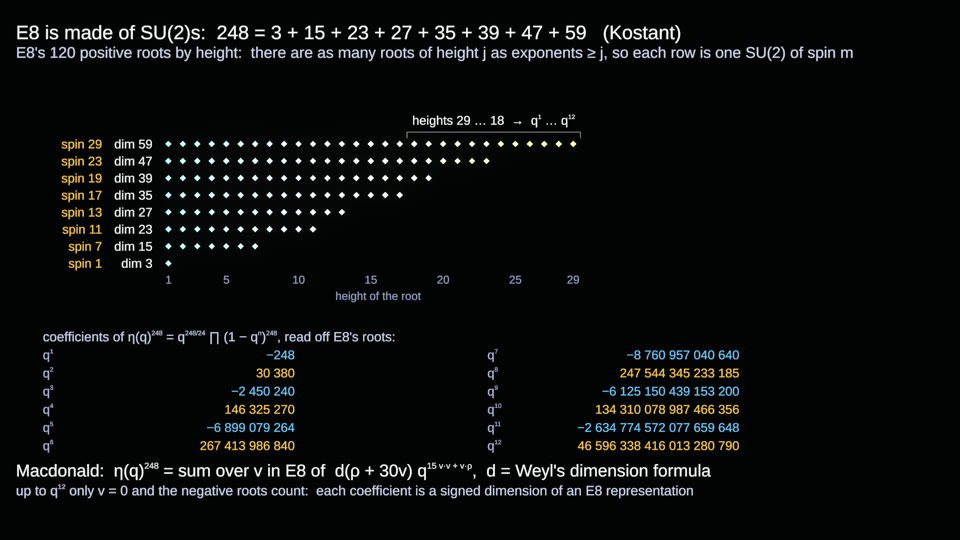
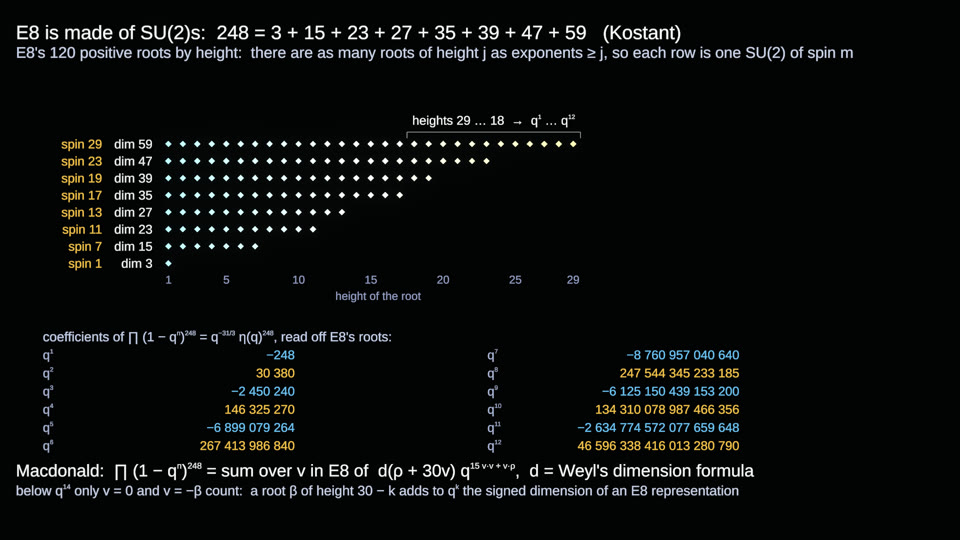
Lie sections: Macdonald's identity with η's q^(31/3), checked term by term; τ(n) from E8³ and the Leech lattice
- IB: the identity is ∏(1 − qⁿ)²⁴⁸ = Σ d(ρ + 30v) q^(15 v·v + v·ρ), i.e. η²⁴⁸ with its q^(31/3)
  (= |ρ|²/60) taken off. Rechecked exactly through q¹³, one root at a time: a root β of height
  30 − k adds d(ρ − 30β) to q^k, and the 2160 norm-4 vectors first enter at q¹⁴. q¹…q⁶ are single
  signed irreducible dimensions; from q⁷ on, two to four roots share a height and their terms add.
- ID: Δ = (θ_E8³ − θ_Leech)/720, so τ(n) counts the vectors of norm 2n in E8³ minus those in
  the Leech lattice, over 720 (τ(2) = −24, τ(3) = 252).
- IC: drop a needless "up to sign" (ζ(−1)ζ(−3)²ζ(−5) is positive).

Changed region(s): [[0.0, 0.8593, 0.7812, 0.9185], [0.125, 0.5926, 0.4062, 0.6519]]

diff --git a/Assets/Tests/ExperimentsRenderTest.cs b/Assets/Tests/ExperimentsRenderTest.cs
@@ -1610,15 +1610,15 @@ public class ExperimentsRenderTest
             "E8 is made of SU(2)s:  248 = 3 + 15 + 23 + 27 + 35 + 39 + 47 + 59   (Kostant)|" +
             "E8's 120 positive roots by height:  there are as many roots of height j as exponents ≥ j, so each row is one SU(2) of spin m", 52f);
         sacks.ExpCaption(Lie(1) + new Vector3(-125f, -54f, -.3f), Vector3.down * 5.4f,
-            "Macdonald:  η(q)<sup>248</sup> = sum over v in E8 of  d(ρ + 30v) q<sup>15 v·v + v·ρ</sup>,  d = Weyl's dimension formula|" +
-            "up to q<sup>12</sup> only v = 0 and the negative roots count:  each coefficient is a signed dimension of an E8 representation", 46f);
+            "Macdonald:  ∏ (1 − q<sup>n</sup>)<sup>248</sup> = sum over v in E8 of  d(ρ + 30v) q<sup>15 v·v + v·ρ</sup>,  d = Weyl's dimension formula|" +
+            "below q<sup>14</sup> only v = 0 and v = −β count:  a root β of height 30 − k adds to q<sup>k</sup> the signed dimension of an E8 representation", 46f);
         yield return Shot("IB1-e8-as-su2-spins-and-macdonald", Lie(1) + back * 140f, Lie(1), Vector3.up, 55f);
         sacks.ClearExperiments();
 
         sacks.ExpZetaAtExponents(Lie(2), lieLabel);
         sacks.ExpCaption(Lie(2) + new Vector3(-125f, 64f, -.3f), Vector3.down * 5.4f,
             "E8's symmetry is counted by ζ at negative integers|" +
-            "the Weyl group of E8 has 2·8·12·14·18·20·24·30 = 696 729 600 elements = 16 / (ζ(−1) ζ(−3)² ζ(−5)), up to sign  (the mass formula)", 52f);
+            "the Weyl group of E8 has 2·8·12·14·18·20·24·30 = 696 729 600 elements = 16 / (ζ(−1) ζ(−3)² ζ(−5))   (the mass formula)", 52f);
         sacks.ExpCaption(Lie(2) + new Vector3(-125f, -50f, -.3f), Vector3.down * 5f,
             "16 dimensions:  1 / #Aut(E8²) + 1 / #Aut(D16<sup>+</sup>) = 691 / 277 667 181 515 243 520 000|" +
             "ζ(−11) = 691/32760, and 691 is the prime of Ramanujan's congruence τ(n) ≡ σ<sub>11</sub>(n) mod 691|" +
@@ -1629,7 +1629,8 @@ public class ExperimentsRenderTest
         sacks.ExpSatoTate(Lie(3), lieLabel);
         sacks.ExpCaption(Lie(3) + new Vector3(-125f, 64f, -.3f), Vector3.down * 5.4f,
             "From E8's theta series to SU(2):  the primes in Ramanujan's Δ follow the Sato–Tate law|" +
-            "θ<sub>E8</sub> = E<sub>4</sub>,  Δ = (E<sub>4</sub>³ − E<sub>6</sub>²)/1728 = Σ τ(n) q<sup>n</sup>,  τ(p) = 2 p<sup>11/2</sup> cos θ<sub>p</sub>:  θ<sub>p</sub> is distributed like the angle of a random SU(2) matrix", 52f);
+            "Δ = (θ<sub>E8</sub>³ − θ<sub>Leech</sub>)/720 = Σ τ(n) q<sup>n</sup>:  τ(n) is the number of vectors of norm 2n in E8³ minus the number in the Leech lattice, over 720|" +
+            "Deligne:  τ(p) = 2 p<sup>11/2</sup> cos θ<sub>p</sub>,  and θ<sub>p</sub> is distributed like the angle of a random SU(2) matrix", 52f);
         yield return Shot("ID1-sato-tate-from-e8s-theta", Lie(3) + back * 140f, Lie(3), Vector3.up, 55f);
         sacks.ClearExperiments();
 

diff --git a/Assets/Tour/SacksLieGuts.cs b/Assets/Tour/SacksLieGuts.cs
@@ -10,7 +10,7 @@ using UnityEngine;
 ///       the zeta chain restricted to E8's exponent hours (measured at t = 5000), which are those traces
 ///   IB  E8 as SU(2) spins (Kostant: 248 = 3 + 15 + … + 59 from the root heights) and Macdonald's η²⁴⁸ from the same roots
 ///   IC  ζ at minus E8's exponents, and the Weyl group counted by ζ at negative integers (the mass formula)
-///   ID  Sato–Tate: the angles of Δ = (θ_E8³ − E6²)/1728 at the primes are SU(2)'s Haar measure, on every one of E8's spokes
+///   ID  Sato–Tate: the angles of Δ = (θ_E8³ − θ_Leech)/720 at the primes are SU(2)'s Haar measure, on every one of E8's spokes
 /// </summary>
 public partial class SacksSpiral
 {
@@ -140,7 +140,7 @@ public partial class SacksSpiral
 
     /// <summary>
     /// E8's 120 positive roots by height: row j has as many roots as exponents ≥ j, so column i has height m_i, the spin of
-    /// one SU(2) piece of E8 (dimension 2m_i + 1). Beside the top rows: the coefficients of η(q)²⁴⁸ = q^(248/24) ∏(1 − qⁿ)²⁴⁸,
+    /// one SU(2) piece of E8 (dimension 2m_i + 1). Beside the top rows: the coefficients of ∏(1 − qⁿ)²⁴⁸ = q^(−31/3) η(q)²⁴⁸,
     /// which Macdonald's identity gives as d(ρ − 30β) summed over the roots β of height 30 − K (d = Weyl's dimension formula).
     /// </summary>
     public void ExpKostantMacdonald(Vector3 o, float labelSize)
@@ -187,7 +187,7 @@ public partial class SacksSpiral
             "−6 125 150 439 153 200", "134 310 078 987 466 356", "−2 634 774 572 077 659 648", "46 596 338 416 013 280 790"
         };
         Vector3 t0 = o + new Vector3(-118f, -18f, 0f);
-        ExpLabelWide(g, "coefficients of η(q)<sup>248</sup> = q<sup>248/24</sup> ∏ (1 − q<sup>n</sup>)<sup>248</sup>, read off E8's roots:", t0, labelSize * .21f, new Color(.8f, .84f, .95f), TextAlignmentOptions.Left);
+        ExpLabelWide(g, "coefficients of ∏ (1 − q<sup>n</sup>)<sup>248</sup> = q<sup>−31/3</sup> η(q)<sup>248</sup>, read off E8's roots:", t0, labelSize * .21f, new Color(.8f, .84f, .95f), TextAlignmentOptions.Left);
         for (int K = 1; K <= 12; K++)
         {
             int col = (K - 1) / 6, row = (K - 1) % 6;

diff --git a/docs/experiments/README.md b/docs/experiments/README.md
@@ -2616,16 +2616,19 @@ Checked: the multiplicities of the root heights (8 roots of height 1, then 7, 7,
 those of these eight SU(2) strings. E8's Coxeter element is conjugate to this SU(2)'s rotation by 1/30 of a turn, which
 is why its eigenvalues are e^(2πim/30). The gold hours of E8's wheel are the spins of E8's SU(2) pieces.
 
-**Macdonald's identity builds η²⁴⁸ from E8's roots.** It reads η(q)²⁴⁸ = Σ_{v∈E8} d(ρ + 30v) q^(15 v·v + v·ρ), with d
-Weyl's dimension formula. Checked exactly through q¹²: only v = 0 and the negative roots contribute, and the sum gives
+**Macdonald's identity builds η²⁴⁸ from E8's roots.** It reads ∏(1 − qⁿ)²⁴⁸ = Σ_{v∈E8} d(ρ + 30v) q^(15 v·v + v·ρ), with
+d Weyl's dimension formula. The left side is η(q)²⁴⁸ with its q^(248/24) taken off (248/24 = |ρ|²/60 = 31/3). Below q¹⁴
+only v = 0 and v = −β for the 120 positive roots β contribute: β adds d(ρ − 30β) to the power q^(30 − height β). The 2160
+vectors of norm 4 first enter at q¹⁴. Checked exactly, term by term, through q¹³:
 
 | q^K | 1 | 2 | 3 | 4 | 5 | 6 |
 |---|---|---|---|---|---|---|
 | coefficient | −248 | 30 380 | −2 450 240 | 146 325 270 | −6 899 079 264 | 267 413 986 840 |
 
-These are the coefficients of q^(248/24) ∏(1 − qⁿ)²⁴⁸, the counting function η raised to the dimension of E8. The first
-ones are signed dimensions of irreducible representations of E8 (248 is the adjoint; 30 380 and 2 450 240 are
-irreducibles too).
+Heights 29 down to 24 hold one root each, so each of these six coefficients is a single signed dimension of an irreducible
+representation of E8 (248 is the adjoint; 30 380, 2 450 240, 146 325 270, … are irreducibles too). From q⁷ on, two,
+three, then four roots share a height and their terms add: q⁷ = −5 006 235 840 320 − 3 754 721 200 320
+= −8 760 957 040 640.
 
 ![IB1](IB1-e8-as-su2-spins-and-macdonald.jpg)
 
@@ -2663,7 +2666,10 @@ the product of ζ(m + 1) into the volume of E8(Z)\E8(R) (Gross's "motive of E8")
 The chain from E8's theta series to Δ, all checked:
 
 * **The theta series:** θ_E8 = E₄.
-* **Δ:** (E₄³ − E₆²)/1728 = Ramanujan's Δ = Σ τ(n) qⁿ, coefficient by coefficient.
+* **Δ from lattices alone:** Δ = (θ_E8³ − θ_Leech)/720 = Σ τ(n) qⁿ (section EC checked the Leech shells). So τ(n) is
+  the number of vectors of norm 2n in E8⊕E8⊕E8 minus the number in the Leech lattice, divided by 720:
+  τ(2) = (179 280 − 196 560)/720 = −24 and τ(3) = (16 954 560 − 16 773 120)/720 = 252.
+* **The same Δ from E₆:** (E₄³ − E₆²)/1728, coefficient by coefficient.
 * **Deligne's bound:** |τ(p)| ≤ 2p^(11/2) holds for all 2262 primes p ≤ 20 000, so τ(p) = 2p^(11/2) cos θ_p.
 
 **The angles are random SU(2) angles.** The Sato–Tate theorem for Δ (Barnet-Lamb, Geraghty, Harris, Taylor 2011) says
